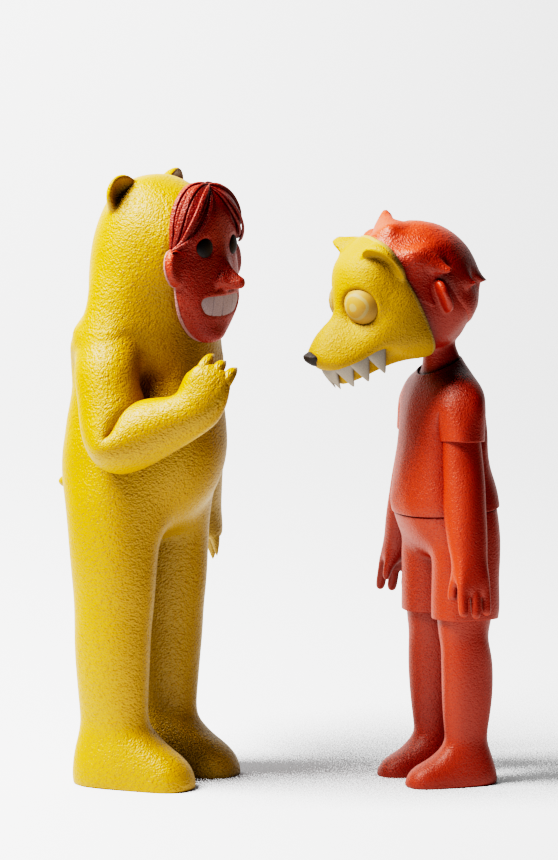
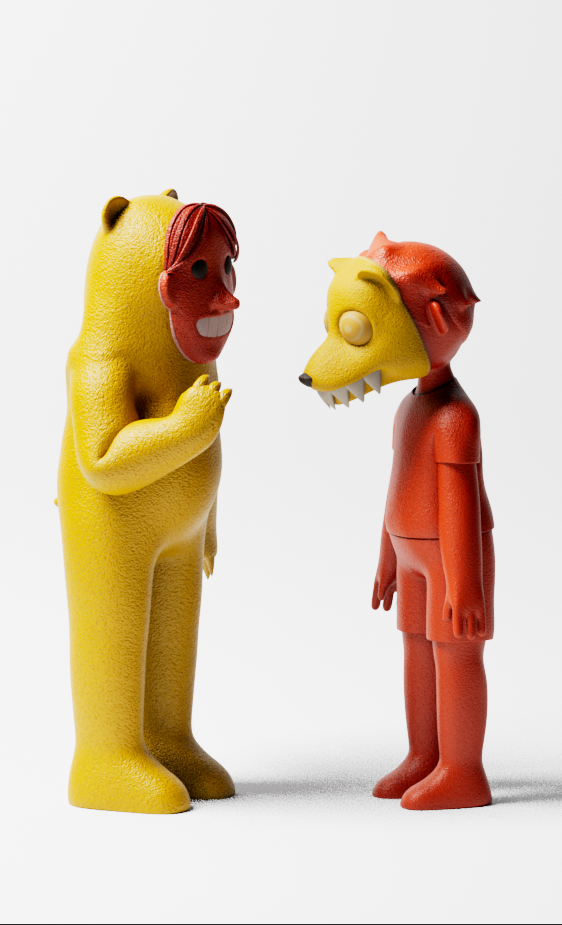
but

Changed region(s): [[0.0914, 0.1814, 1.0, 0.9372], [0.0, 0.9977, 1.0, 1.0]]

diff --git a/style.css b/style.css
@@ -29,7 +29,7 @@ time, mark, audio, video {
 
 body {
     background-color: #c0e3cc6f;
-    background-image: url(./assets/boy\ and\ bear\ sketch\ by\ sam\ mason5.png);
+    background-image: url(./assets/boy\ and\ bear\ sketch\ by\ sam\ mason8.png);
     background-size: 100%;
     max-height: 100vh;
 }
